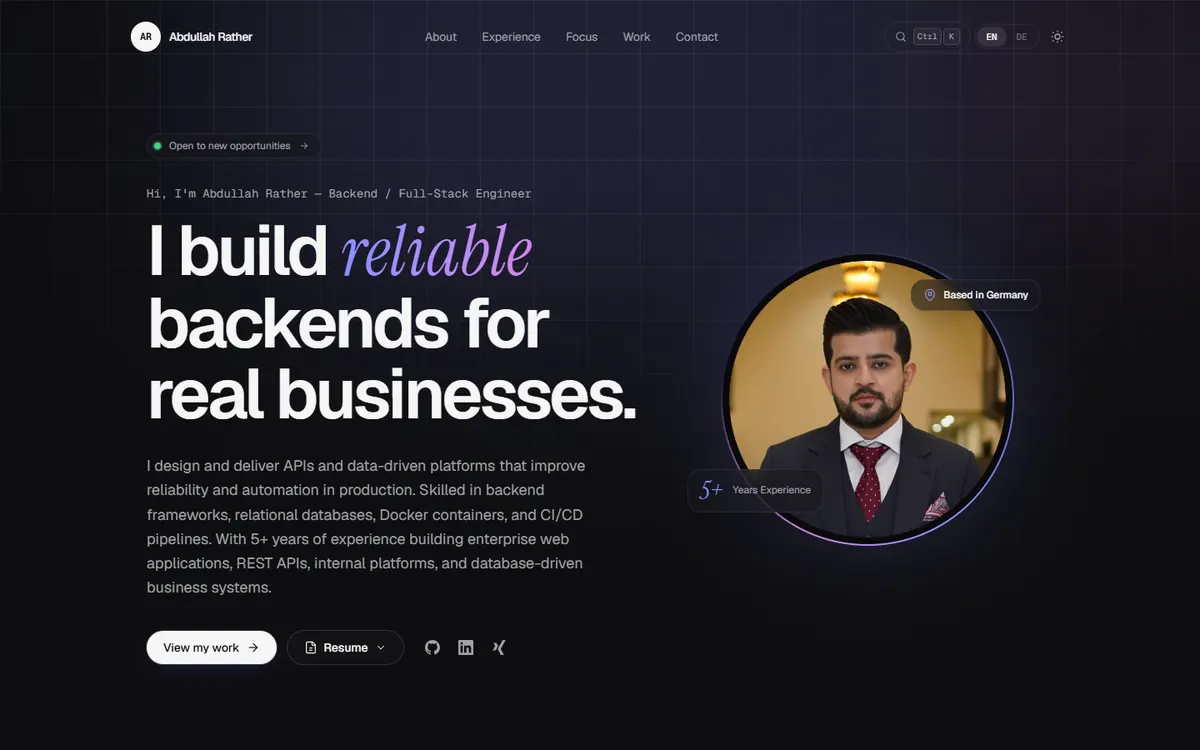
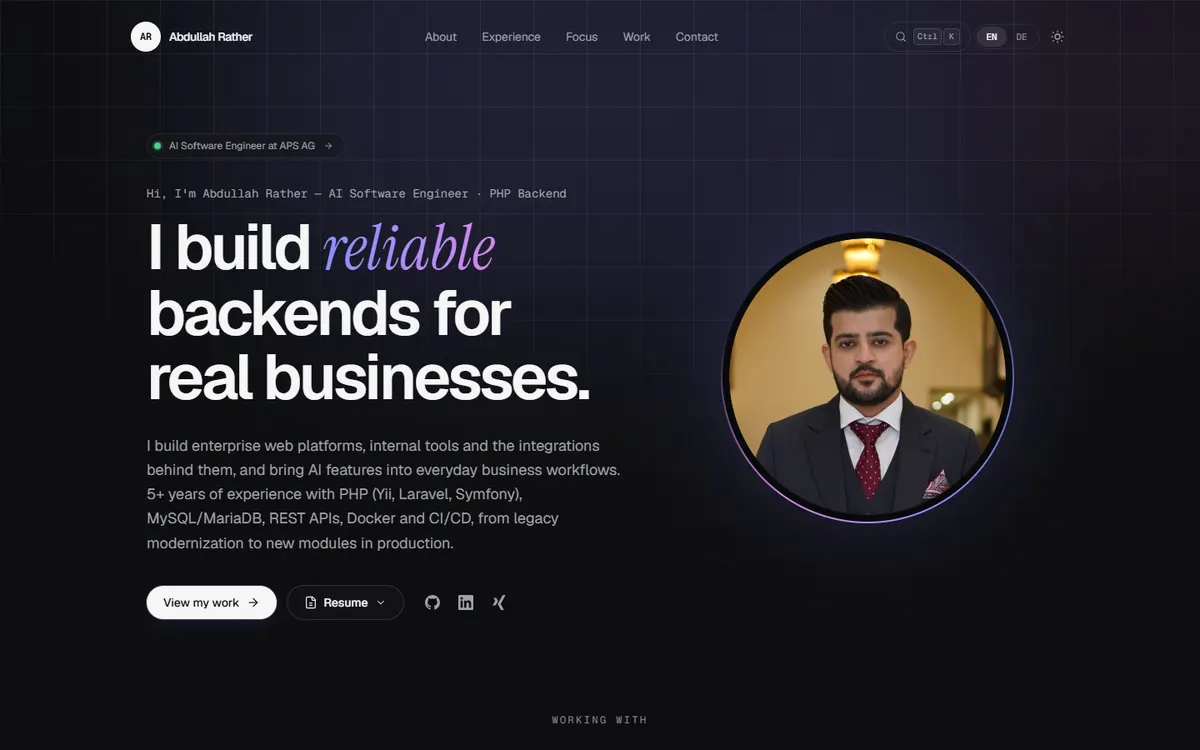
Polish hero, navigation, timeline and projects
- Hero: remove the location and years chips from the portrait
- Nav: one highlight slides between sections
- Experience: timeline line fills on scroll; Key Impact opens smoothly
- Projects: full-width featured card in the All view; six cards in filters
- Portfolio entry and thumbnail updated (no GSAP, current hero)
- Mobile browser bar follows the chosen theme

diff --git a/src/components/Projects.jsx b/src/components/Projects.jsx
@@ -7,7 +7,9 @@ import { useTranslation } from "../lib/i18n";
 import { spotlight, useReveal } from "../lib/hooks";
 import { isPrivateRepo } from "../lib/site";
 
-const INITIAL_COUNT = 6;
+// One full-width featured card plus two rows of three.
+const FEATURED_COUNT = 7;
+const FILTERED_COUNT = 6;
 
 const hasDemo = (p) => p.demo && p.demo !== "#";
 
@@ -28,7 +30,7 @@ const withGridTransition = (grid, update) => {
   transition.finished.finally(() => grid.classList.remove("vt-cards"));
 };
 
-const ProjectCard = ({ project, index, onOpen }) => {
+const ProjectCard = ({ project, index, onOpen, featured = false }) => {
   const { t } = useTranslation();
   const reveal = useReveal();
   const isPrivate = isPrivateRepo(project.github);
@@ -39,18 +41,20 @@ const ProjectCard = ({ project, index, onOpen }) => {
       ref={reveal}
       onPointerMove={spotlight}
       style={{ "--delay": `${(index % 3) * 70}ms`, "--vt": `project-${project.id}` }}
-      className="project-card card spotlight group flex flex-col overflow-hidden p-2 transition-colors duration-300 hover:border-line-strong"
+      className={`project-card card spotlight group flex flex-col overflow-hidden p-2 transition-colors duration-300 hover:border-line-strong ${
+        featured ? "sm:col-span-2 lg:col-span-3 lg:flex-row" : ""
+      }`}
     >
       <button
         type="button"
         onClick={() => onOpen(project)}
-        className="relative block aspect-16/10 overflow-hidden rounded-[1.1rem] bg-fg/5"
+        className={`relative block aspect-16/10 overflow-hidden rounded-[1.1rem] bg-fg/5 ${featured ? "lg:w-3/5 lg:shrink-0" : ""}`}
         aria-label={`${t("ui.projects.details")}: ${project.title}`}
       >
         <img
           src={project.image}
           srcSet={`${project.image.replace(/\.webp$/, "-640.webp")} 640w, ${project.image} 1200w`}
-          sizes="(min-width: 1024px) 360px, (min-width: 640px) 50vw, 100vw"
+          sizes={featured ? "(min-width: 1024px) 660px, 100vw" : "(min-width: 1024px) 360px, (min-width: 640px) 50vw, 100vw"}
           alt=""
           loading="lazy"
           decoding="async"
@@ -64,9 +68,10 @@ const ProjectCard = ({ project, index, onOpen }) => {
         </span>
       </button>
 
-      <div className="flex flex-1 flex-col px-4 pb-4 pt-5">
+      <div className={`flex flex-1 flex-col px-4 pb-4 pt-5 ${featured ? "lg:justify-center lg:px-8" : ""}`}>
+        {featured && <p className="eyebrow mb-4">{t("ui.projects.featured")}</p>}
         <div className="flex items-start justify-between gap-3">
-          <h3 className="text-lg font-semibold leading-snug tracking-tight">{project.title}</h3>
+          <h3 className={`font-semibold leading-snug tracking-tight ${featured ? "text-2xl lg:text-3xl" : "text-lg"}`}>{project.title}</h3>
           {isPrivate ? (
             <span className="mt-1 shrink-0 text-subtle" title={t("ui.projects.private")}>
               <Icon name="lock" className="size-4" />
@@ -84,8 +89,8 @@ const ProjectCard = ({ project, index, onOpen }) => {
             </a>
           )}
         </div>
-        <p className="mt-2 line-clamp-2 text-sm leading-relaxed text-muted">{project.description}</p>
-        <ul className="mt-auto flex flex-wrap gap-1.5 pt-5">
+        <p className={`mt-2 text-sm leading-relaxed text-muted ${featured ? "lg:mt-4 lg:text-base" : "line-clamp-2"}`}>{project.description}</p>
+        <ul className={`flex flex-wrap gap-1.5 pt-5 ${featured ? "" : "mt-auto"}`}>
           {project.technologies.slice(0, 4).map((tech) => (
             <li key={tech} className="chip">
               {tech}
@@ -217,7 +222,8 @@ const Projects = () => {
     id === "all" ? true : id === "public" ? !isPrivateRepo(p.github) : p.category === id;
 
   const filtered = useMemo(() => projects.filter((p) => matches(p, filter)), [projects, filter]);
-  const visible = showAll ? filtered : filtered.slice(0, INITIAL_COUNT);
+  const initialCount = filter === "all" ? FEATURED_COUNT : FILTERED_COUNT;
+  const visible = showAll ? filtered : filtered.slice(0, initialCount);
 
   const openProject = (project) => {
     setSelected(project);
@@ -264,11 +270,11 @@ const Projects = () => {
 
         <div ref={gridRef} className="grid gap-4 sm:grid-cols-2 lg:grid-cols-3">
           {visible.map((project, i) => (
-            <ProjectCard key={project.id} project={project} index={i} onOpen={openProject} />
+            <ProjectCard key={project.id} project={project} index={i} onOpen={openProject} featured={filter === "all" && i === 0} />
           ))}
         </div>
 
-        {filtered.length > INITIAL_COUNT && (
+        {filtered.length > initialCount && (
           <div className="mt-12 flex flex-col items-center gap-3">
             <button
               type="button"

diff --git a/src/components/Nav.jsx b/src/components/Nav.jsx
@@ -1,4 +1,4 @@
-import React, { useEffect, useState } from "react";
+import React, { useEffect, useRef, useState } from "react";
 import LanguageSwitcher from "./LanguageSwitcher";
 import { Icon } from "./Icons";
 import { useTranslation } from "../lib/i18n";
@@ -25,6 +25,24 @@ const Nav = ({ onOpenCommand }) => {
   const [scrolled, setScrolled] = useState(false);
   const [menuOpen, setMenuOpen] = useState(false);
   const [isMac, setIsMac] = useState(false);
+  const linksRef = useRef(null);
+  const [pill, setPill] = useState({ left: 0, width: 0, visible: false });
+
+  // Slide one shared highlight to the active link; re-measure on language or size changes.
+  useEffect(() => {
+    const list = linksRef.current;
+    if (!list) return undefined;
+    const measure = () => {
+      const link = list.querySelector('[aria-current="true"]');
+      setPill((prev) =>
+        link ? { left: link.offsetLeft, width: link.offsetWidth, visible: true } : { ...prev, visible: false }
+      );
+    };
+    measure();
+    const observer = new ResizeObserver(measure);
+    observer.observe(list);
+    return () => observer.disconnect();
+  }, [active, t]);
 
   useEffect(() => {
     setIsMac(/Mac|iPhone|iPad/.test(navigator.platform || navigator.userAgent));
@@ -71,19 +89,22 @@ const Nav = ({ onOpenCommand }) => {
             <span className="hidden text-sm font-medium tracking-tight sm:block">Abdullah Rather</span>
           </a>
 
-          <ul className="hidden items-center gap-0.5 md:flex">
+          <ul ref={linksRef} className="relative hidden items-center gap-0.5 md:flex">
+            <li
+              role="presentation"
+              aria-hidden="true"
+              className={`absolute inset-y-0 left-0 rounded-full bg-fg/7 ring-1 ring-line transition-[transform,width,opacity] duration-500 ease-out-expo ${pill.visible ? "opacity-100" : "opacity-0"}`}
+              style={{ width: pill.width, transform: `translateX(${pill.left}px)` }}
+            />
             {SECTIONS.map(({ id, key }) => (
               <li key={id}>
                 <a
                   href={`#${id}`}
                   aria-current={active === id ? "true" : undefined}
-                  className={`relative isolate rounded-full px-3.5 py-1.5 text-sm transition-colors ${
+                  className={`relative block rounded-full px-3.5 py-1.5 text-sm transition-colors ${
                     active === id ? "text-fg" : "text-muted hover:text-fg"
                   }`}
                 >
-                  {active === id && (
-                    <span aria-hidden="true" className="absolute inset-0 -z-10 rounded-full bg-fg/7 ring-1 ring-line" />
-                  )}
                   {t(key)}
                 </a>
               </li>

diff --git a/src/components/Hero.jsx b/src/components/Hero.jsx
@@ -55,8 +55,7 @@ const ResumeMenu = () => {
   );
 };
 
-const Portrait = ({ years }) => {
-  const { t } = useTranslation();
+const Portrait = () => {
   return (
     <div className="enter relative order-first mx-auto w-full max-w-56 sm:max-w-88 lg:order-none" style={delay(200)}>
       {/* Glow */}
@@ -77,18 +76,6 @@ const Portrait = ({ years }) => {
             />
           </picture>
         </div>
-      </div>
-
-      {/* Floating chips */}
-      <div className="card absolute -left-8 bottom-6 flex items-center gap-3 rounded-2xl px-3 py-2 shadow-xl sm:-left-10 sm:bottom-10 sm:px-3.5 sm:py-2.5">
-        <span className="font-serif text-2xl italic leading-none text-accent sm:text-3xl">{years}+</span>
-        <span className="text-xs leading-tight text-muted">
-          {t("skills.stats.years_experience")}
-        </span>
-      </div>
-      <div className="card absolute -right-10 top-4 flex items-center gap-2 rounded-2xl px-3 py-2 shadow-xl sm:-right-8 sm:top-8 sm:px-3.5 sm:py-2.5">
-        <Icon name="mapPin" className="size-4 text-accent" />
-        <span className="text-xs font-medium">{t("hero.badges.location")}</span>
       </div>
     </div>
   );
@@ -147,7 +134,7 @@ const Hero = () => {
             </div>
           </div>
 
-          <Portrait years={years} />
+          <Portrait />
         </div>
       </div>
 

diff --git a/src/index.css b/src/index.css
@@ -339,3 +339,42 @@ dialog[open]::backdrop {
   animation-duration: 0.45s;
   animation-timing-function: cubic-bezier(0.16, 1, 0.3, 1);
 }
+
+/* Experience timeline fills as it scrolls through the viewport */
+.timeline-fill {
+  opacity: 0;
+}
+@supports (animation-timeline: view()) {
+  .timeline-fill {
+    opacity: 1;
+    animation: grow-y linear both;
+    animation-timeline: view();
+    animation-range: cover 10% cover 80%;
+  }
+}
+@keyframes grow-y {
+  from { transform: scaleY(0); }
+  to { transform: scaleY(1); }
+}
+
+/* Key Impact sections open smoothly where height: auto can be animated */
+@supports (interpolate-size: allow-keywords) {
+  html {
+    interpolate-size: allow-keywords;
+  }
+  details::details-content {
+    block-size: 0;
+    overflow: clip;
+    transition: block-size 0.45s var(--ease-out-expo), content-visibility 0.45s allow-discrete;
+  }
+  details[open]::details-content {
+    block-size: auto;
+  }
+}
+
+@media (prefers-reduced-motion: reduce) {
+  .timeline-fill {
+    animation: none;
+    opacity: 0;
+  }
+}

diff --git a/src/components/WorkExperience.jsx b/src/components/WorkExperience.jsx
@@ -121,7 +121,9 @@ const WorkExperience = () => {
           lead={t("workExperience.description")}
         />
 
-        <ol className="relative divide-y divide-line border-y border-line md:border-l md:border-y-0 md:divide-y-0">
+        <div className="relative">
+          <span aria-hidden="true" className="timeline-fill absolute left-0 top-0 z-10 hidden h-full w-px origin-top bg-linear-to-b from-accent to-accent-2 md:block" />
+          <ol className="relative divide-y divide-line border-y border-line md:border-l md:border-y-0 md:divide-y-0">
           {experiences.map((experience, index) => (
             <Role
               key={`${experience.company}-${experience.role}`}
@@ -134,7 +136,8 @@ const WorkExperience = () => {
               impactLabel={t("workExperience.key_impact")}
             />
           ))}
-        </ol>
+          </ol>
+        </div>
       </div>
     </section>
   );

diff --git a/index.html b/index.html
@@ -13,6 +13,11 @@
         var saved = localStorage.getItem("theme");
         var dark = saved ? saved === "dark" : window.matchMedia("(prefers-color-scheme: dark)").matches;
         document.documentElement.classList.toggle("dark", dark);
+        addEventListener("DOMContentLoaded", function () {
+          document.querySelectorAll('meta[name="theme-color"]').forEach(function (meta) {
+            meta.content = dark ? "#09090b" : "#fafafa";
+          });
+        });
       } catch (e) {}
       // The pre-rendered HTML is English. For other languages (same rule as getInitialLang in
       // src/lib/i18n.jsx) hide the page until React swaps the text, with a safety timeout.

diff --git a/src/lib/theme.js b/src/lib/theme.js
@@ -10,6 +10,10 @@ const getSnapshot = () => document.documentElement.classList.contains("dark");
 
 const applyTheme = (dark) => {
   document.documentElement.classList.toggle("dark", dark);
+  // Keep the mobile browser bar in step with a manually chosen theme.
+  document.querySelectorAll('meta[name="theme-color"]').forEach((meta) => {
+    meta.content = dark ? "#09090b" : "#fafafa";
+  });
   try {
     localStorage.setItem("theme", dark ? "dark" : "light");
   } catch {
